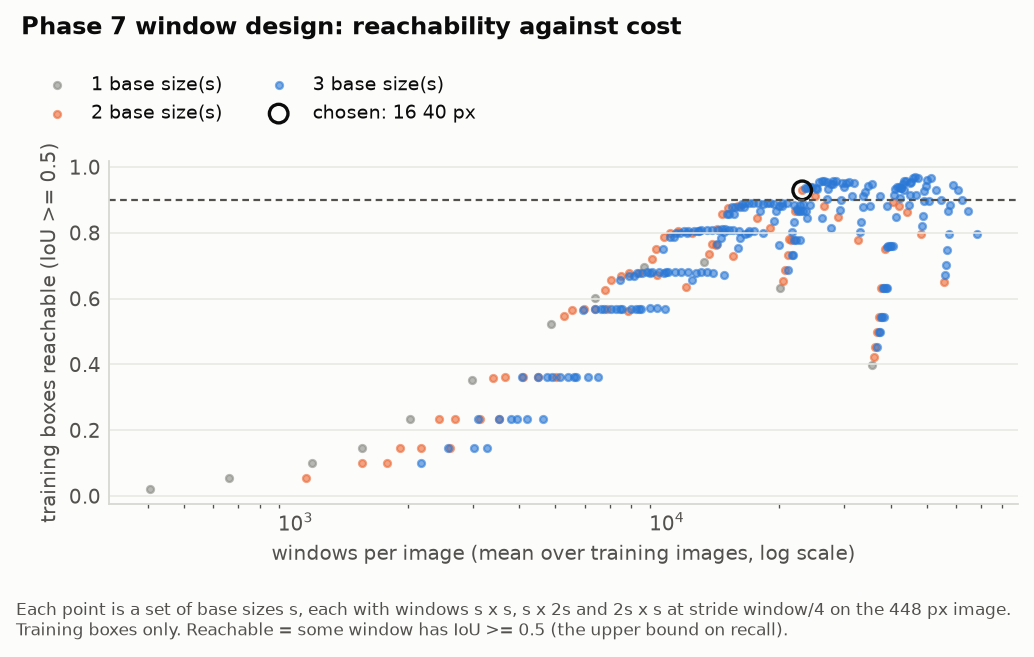
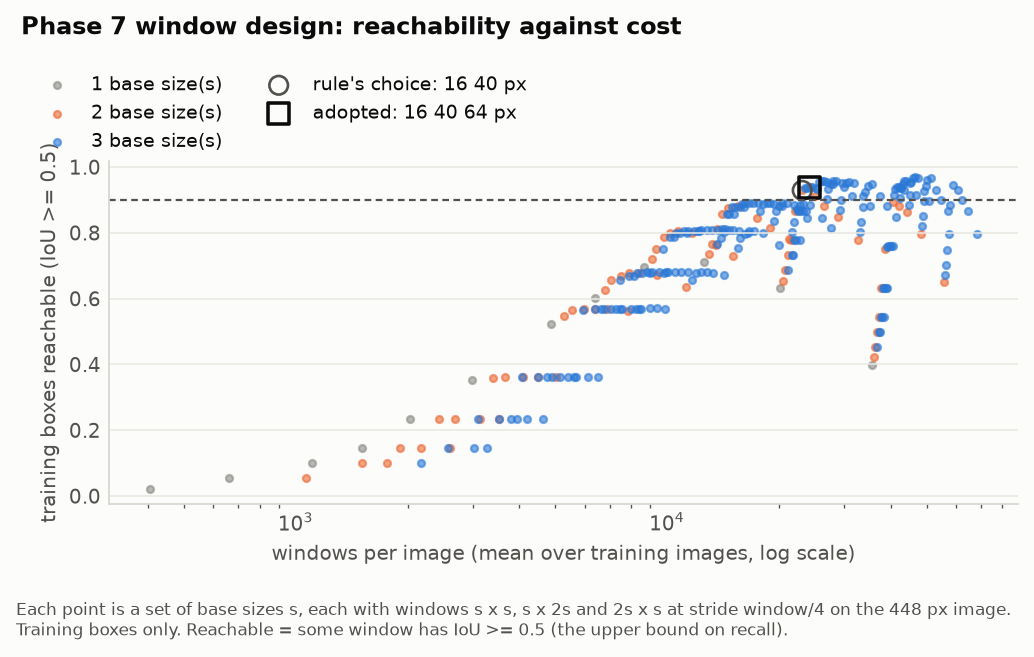
Phase 7 protocol: STOP 1 revision, window set {16, 40, 64} px (before any model)
Decided at the STOP 1 review: adding 64 px lifts hip reachability 83.7% -> 91.8% (leg
88.0% -> 89.2%) for 4.8% more windows (24,213 per image); overall 93.9%, positive windows
3,511. The rule's choice {16, 40} stays on record (window_design.json). Design script gains
--sizes/--reason so the adopted set's numbers come from the same code.

Changed region(s): [[0.2476, 0.1218, 0.5261, 0.2131], [0.0928, 0.1826, 0.2166, 0.2435], [0.7427, 0.2435, 0.8046, 0.3044]]

diff --git a/src/phase7_window_design.py b/src/phase7_window_design.py
@@ -14,7 +14,9 @@ the window overlaps the box.
 A box is REACHABLE if some window of the set has IoU >= 0.5 with it; the share of reachable boxes is the upper bound on
 recall at IoU 0.5. Selection rule (Phase 7 protocol, docs/phase7_localization.md): among subsets of the candidate base
 sizes, the smallest number of sizes with >= 90% of training boxes reachable; among those, the fewest windows per
-image (mean over the training images).
+image (mean over the training images). --sizes adopts another set (decided at a review); both are recorded.
+
+    python src/phase7_window_design.py --sizes 16 40 64 --reason "..."    # the set adopted at the STOP 1 review
 """
 import argparse
 import json
@@ -76,6 +78,9 @@ def box_stats(b, w, h, content):
 
 def main(argv=None):
     ap = argparse.ArgumentParser()
+    ap.add_argument("--sizes", type=int, nargs="+", default=None,
+                    help="adopt these base sizes instead of the rule's choice (the rule's choice is still recorded)")
+    ap.add_argument("--reason", default="", help="why --sizes overrides the rule (recorded in window_design.json)")
     ap.add_argument("--no-log", action="store_true")
     ap.add_argument("--out-dir", type=Path, default=REPO_ROOT / "results" / "phase7")
     ap.add_argument("--tables-dir", type=Path, default=REPO_ROOT / "results" / "tables")
@@ -129,8 +134,13 @@ def main(argv=None):
         if chosen is not None and k >= chosen["n_sizes"] + 1:
             break
     design = pd.DataFrame(rows).sort_values(["n_sizes", "windows_per_image"])
-    sizes = [int(s) for s in chosen["sizes"].split()]
+    rule_sizes = [int(s) for s in chosen["sizes"].split()]
+    sizes = sorted(args.sizes) if args.sizes else rule_sizes
+    bad = [s for s in sizes if s not in CANDIDATES]
+    if bad:
+        raise SystemExit(f"--sizes {bad} are not candidate base sizes {CANDIDATES}")
     cols = [tix[wh] for wh in window_types(sizes)]
+    adopted_windows = float(per_type[cols].sum())
     reach50, reach30 = best[:, cols].max(1) >= 0.5, best[:, cols].max(1) >= 0.3
     pos = n50[:, cols].sum(1)
     rt = []
@@ -150,8 +160,11 @@ def main(argv=None):
     out = dict(rule="fewest base sizes with >= 90% of training boxes reachable at IoU 0.5 (stride window/4, "
                     "content filter), then fewest windows per image",
                candidates=list(CANDIDATES), aspects=[list(a) for a in ASPECTS], size=SIZE, mid=MID,
-               chosen_sizes=sizes, window_types=[list(wh) for wh in window_types(sizes)],
-               windows_per_image=float(chosen["windows_per_image"]),
+               rule_sizes=rule_sizes, rule_windows_per_image=float(chosen["windows_per_image"]),
+               rule_reach_iou50=float(chosen["reach"]),
+               chosen_sizes=sizes, adopted_reason=args.reason if args.sizes else "the rule's choice",
+               window_types=[list(wh) for wh in window_types(sizes)],
+               windows_per_image=adopted_windows,
                windows_per_image_by_type={f"{w}x{h}": float(per_type[tix[(w, h)]]) for w, h in window_types(sizes)},
                reach_iou50=float(reach50.mean()), reach_iou30=float(reach30.mean()),
                reach_by_region={r["group"]: float(r["reach_iou50"]) for r in rt},
@@ -169,8 +182,11 @@ def main(argv=None):
         d = design[design.n_sizes == k]
         ax.scatter(d.windows_per_image, d.reach, s=10, color=col, alpha=0.6, label=f"{k} base size(s)")
     ax.axhline(TARGET, color=C["ink2"], ls=(0, (3, 2)), lw=1)
-    ax.scatter([chosen["windows_per_image"]], [chosen["reach"]], s=70, facecolor="none", edgecolor=C["ink"], lw=1.5,
-               label=f"chosen: {chosen['sizes']} px")
+    ax.scatter([chosen["windows_per_image"]], [chosen["reach"]], s=70, facecolor="none", edgecolor=C["ink2"], lw=1.2,
+               label=f"rule's choice: {chosen['sizes']} px")
+    if sizes != rule_sizes:
+        ax.scatter([adopted_windows], [reach50.mean()], s=90, marker="s", facecolor="none", edgecolor=C["ink"], lw=1.6,
+                   label=f"adopted: {' '.join(map(str, sizes))} px")
     ax.set_xscale("log")
     ax.set_xlabel("windows per image (mean over training images, log scale)")
     ax.set_ylabel("training boxes reachable (IoU >= 0.5)")
@@ -180,8 +196,9 @@ def main(argv=None):
          "448 px image. Training boxes only. Reachable = some window has IoU >= 0.5 (the upper bound on recall).")
 
     pd.set_option("display.width", 200)
-    print(f"\nChosen base sizes {sizes} px -> window types {window_types(sizes)}")
-    print(f"windows per image {chosen['windows_per_image']:.0f}; reachability IoU 0.5 {reach50.mean():.1%}, "
+    print(f"\nRule's choice {rule_sizes} px ({chosen['windows_per_image']:.0f} windows, reach {chosen['reach']:.1%})")
+    print(f"Adopted base sizes {sizes} px -> window types {window_types(sizes)}")
+    print(f"windows per image {adopted_windows:.0f}; reachability IoU 0.5 {reach50.mean():.1%}, "
           f"IoU 0.3 {reach30.mean():.1%}; positive windows {pos.sum()}")
     print(reach_tab.round(3).to_string(index=False))
     print("\nBest subsets per number of sizes (top 3 by windows among those reaching the target):")
@@ -198,9 +215,11 @@ def main(argv=None):
         log_run(regions="all (pooled), training boxes", feature_set="n/a (box geometry only)",
                 model="n/a (window design analysis, nothing fitted)", imbalance_strategy="n/a",
                 key_hyperparameters=f"448 px; base sizes {sizes}; aspects 1:1 1:2 2:1; stride window/4; content>=50%",
-                cv_score=f"reachability IoU0.5={reach50.mean():.3f}; windows/image={chosen['windows_per_image']:.0f}",
+                cv_score=f"reachability IoU0.5={reach50.mean():.3f}; windows/image={adopted_windows:.0f}",
                 test_metrics="not used (training boxes only)",
-                notes="Phase 7 design analysis (before any model): window set chosen by the protocol rule")
+                notes="Phase 7 design analysis (before any model): " + (
+                    f"rule's choice {rule_sizes}; adopted {sizes} ({args.reason})" if sizes != rule_sizes
+                    else "window set chosen by the protocol rule"))
 
 
 if __name__ == "__main__":

diff --git a/docs/phase7_localization.md b/docs/phase7_localization.md
@@ -44,32 +44,37 @@ a square, CLAHE clip 2.0 tile 8). 512 would mostly upsample: 91% of the images a
   (mean over the 3,266 training images). 12 px was added to the brief's 16-96 range so that the smallest boxes had a
   chance; the rule did not pick it.
 
-**Chosen: base sizes 16 and 40 px, six window types, 23,110 windows per image.** No single size reaches 90% (best
-71.3%). The chosen pair is also the cheapest set reaching 90% with any number of sizes.
+**The rule's choice was base sizes 16 and 40 px** (six window types, 23,110 windows per image, 92.9% of training boxes
+reachable: hand 96.1%, leg 88.0%, hip 83.7%, shoulder 100%). No single size reaches 90% (best 71.3%), and that pair
+is also the cheapest set reaching 90% with any number of sizes.
+
+**Adopted: base sizes 16, 40 and 64 px, nine window types, 24,213 windows per image.** *[Decided at the STOP 1 review,
+2026-11-22, before any model was trained: adding 64 px lifts hip reachability from 83.7% to 91.8% (leg from 88.0% to
+89.2%) for 4.8% more windows, and hip is the region Phases 5-6 focused on. The rule's choice is kept on record in
+`results/phase7/window_design.json`; the numbers below are for the adopted set
+(`python src/phase7_window_design.py --sizes 16 40 64`).]*
 
 | Group | Training boxes | Reachable, IoU >= 0.5 | Reachable, IoU >= 0.3 | Positive windows (IoU >= 0.5) | Per box, median |
 |---|---|---|---|---|---|
-| All | 748 | **92.9%** | 99.7% | 3,192 | 4 |
-| Hand | 389 | 96.1% | 100% | 1,760 | 4 |
-| Leg | 250 | 88.0% | 99.2% | 959 | 4 |
-| Hip | 49 | 83.7% | 100% | 186 | 4 |
-| Shoulder | 50 | 100% | 100% | 232 | 4 |
+| All | 748 | **93.9%** | 99.7% | 3,511 | 4 |
+| Hand | 389 | 96.1% | 100% | 1,790 | 4 |
+| Leg | 250 | 89.2% | 99.2% | 1,117 | 4 |
+| Hip | 49 | 91.8% | 100% | 305 | 6 |
+| Shoulder | 50 | 100% | 100% | 244 | 4 |
 | Other | 10 | 100% | 100% | 55 | 6 |
 
-| Window (w x h, px at 448) | 16 x 16 | 16 x 32 | 32 x 16 | 40 x 40 | 40 x 80 | 80 x 40 | Total |
-|---|---|---|---|---|---|---|---|
-| Windows per image (mean) | 10,102 | 4,962 | 5,055 | 1,514 | 721 | 756 | 23,110 |
+| Window (w x h, px at 448) | 16 x 16 | 16 x 32 | 32 x 16 | 40 x 40 | 40 x 80 | 80 x 40 | 64 x 64 | 64 x 128 | 128 x 64 | Total |
+|---|---|---|---|---|---|---|---|---|---|---|
+| Windows per image (mean) | 10,102 | 4,962 | 5,055 | 1,514 | 721 | 756 | 575 | 259 | 269 | 24,213 |
 
-Leg (88.0%) and hip (83.7%) are below 90% on their own; the rule is about all boxes. For the record, adding a third
-size (64 px) would raise hip to 91.8% and leg to 89.2% for 4.8% more windows (24,213); the rule as written does not
-take it.
+Leg (89.2%) stays just below 90% on its own; the rule is about all boxes.
 
 ## Pipeline
 
 ### Canonical window features (Dalal-Triggs style, computed densely)
-Every window is resampled to a canonical 32 x 32 patch. Implementation: for each of the six window types, the 448 px
+Every window is resampled to a canonical 32 x 32 patch. Implementation: for each of the nine window types, the 448 px
 image is resized by (32/w, 32/h) into one pyramid level of size `(round(448*32/w), round(448*32/h))` (16 x 16: 896 x
-896; 40 x 80: 358 x 179), features are computed once per level, and windows are slices of the level's feature grid. A
+896; 40 x 80: 358 x 179; 128 x 64: 112 x 224), features are computed once per level, and windows are slices of the level's feature grid. A
 window at cell (i, j) of its level covers image pixels `x = i * w/4`, `y = j * h/4`, w x h; the level's cell grid
 reproduces the design grid exactly (a gate checks it).
 - **HOG:** 9 orientations, 8 px cells, 2 x 2 cells per block, L2-Hys (as Phase 2), on the level image; a window is the
@@ -80,13 +85,13 @@ reproduces the design grid exactly (a gate checks it).
 - 366 dims per window. Family block weights 1/sqrt(dims) and `StandardScaler` fitted inside the folds, as
   `model_zoo.build` does.
 - **Deviations from the Phase 2 features, and why:** 8 px instead of 16 px cells, one LBP scale instead of two, no
-  GLCM or Gabor, a 2 x 2 instead of 4 x 4 LBP grid. Windows are 32 px in canonical form and are scored 23,110 times
+  GLCM or Gabor, a 2 x 2 instead of 4 x 4 LBP grid. Windows are 32 px in canonical form and are scored 24,213 times
   per image, so the descriptor has to be small, local and computable from shared per-level maps.
 
 ### Patch dataset (training images only)
-- **Positives:** every window with IoU >= 0.5 with a ground-truth box (median 4 per box; 3,192 on all training images).
+- **Positives:** every window with IoU >= 0.5 with a ground-truth box (median 4 per box; 3,511 on all training images).
 - **Negatives:** windows with IoU < 0.1 with every box of their image, from normal and fractured images, 3 per positive
-  at the start, sampled uniformly from all such windows of the training images in use (all six types), with a
+  at the start, sampled uniformly from all such windows of the training images in use (all nine types), with a
   generator seeded 0 for every fold.
 - Windows with 0.1 <= IoU < 0.5 are discarded.
 
@@ -107,7 +112,7 @@ highest-scoring survivors per image are added as negatives. The classifier is re
 positives and all negatives gathered so far.
 
 ### Inference
-Score every window; greedy NMS at IoU 0.3 across all six window types; keep at most 10 boxes per image. The
+Score every window; greedy NMS at IoU 0.3 across all nine window types; keep at most 10 boxes per image. The
 image-level score is the best window score (= the top box's score).
 
 ## Evaluation
@@ -211,7 +216,7 @@ output to `results/phase7/<step>.log`. Every fitting run gets a row in `results/
 
 | Analysis | Why it is run | What decides the answer | Fixed when |
 |---|---|---|---|
-| Window design | Square 32-64 px windows reach only 52% of boxes | Rule above (>= 90% reachable, fewest sizes, fewest windows) | before (training box geometry only) |
+| Window design | Square 32-64 px windows reach only 52% of boxes | Rule above (>= 90% reachable, fewest sizes, fewest windows), then 64 px added at the STOP 1 review for hip | before (training box geometry only; no model) |
 | Gates and self-tests | Dense features, folded scoring and AP must be right before anything is trusted | Exact or 1e-5 / 1e-6 agreement; hand-computed cases | before |
 | Detection CV | Honest out-of-fold detection performance | Reported with fold-stratified CIs; no verdict except D1 | before |
 | Mining rounds | The plan asks for two rounds; a third choice would be tuning | D1 | before |
@@ -221,12 +226,12 @@ output to `results/phase7/<step>.log`. Every fitting run gets a row in `results/
 
 ## Known threats (carry into the report)
 
-- **Reachability caps recall:** 92.9% of training boxes overall, but 88.0% of leg and 83.7% of hip boxes.
+- **Reachability caps recall:** 93.9% of training boxes overall, 89.2% of leg and 91.8% of hip boxes.
 - **IoU 0.5 is strict for tiny boxes.** The median hand box is 23 px at 448; a 2-3 px disagreement between annotator
   and window costs a lot of IoU. Recall at IoU 0.3 is reported for that reason.
 - **AP@50:95 near zero by construction** (fixed windows, no box regression).
-- **A linear patch model** is weaker than Phase 3's RBF SVM; it is the price of scoring 23,110 windows per image.
-- **Resampling:** 16 px windows are upsampled 2x to the canonical patch, 80 px ones downsampled 2.5x, and 1:2 windows
+- **A linear patch model** is weaker than Phase 3's RBF SVM; it is the price of scoring 24,213 windows per image.
+- **Resampling:** 16 px windows are upsampled 2x to the canonical patch, 128 px ones downsampled 4x, and 1:2 windows
   are stretched anisotropically, which changes gradient orientations.
 - **Unannotated fractures** in fractured images would be sampled or mined as negatives; the boxes are assumed complete.
 - **Scale mixing across folds** is avoided by fold means; the pooled numbers are shown for reference only.
